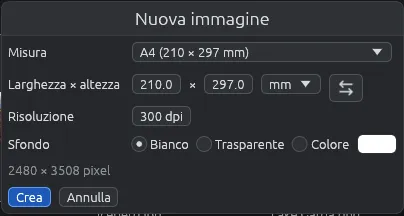
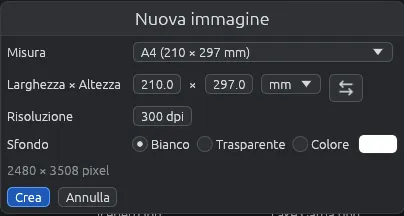
New image: Width × Height, Larghezza × Altezza, with a capital letter as the other labels
Guide and its pictures (en, it) with it.

Refs #311

diff --git a/docs/help/it/new-image.md b/docs/help/it/new-image.md
@@ -16,7 +16,7 @@ Nel visore **Nuova immagine…** è grigia e **Ctrl + N** non fa niente: prima t
 ## Misura
 
 - Misure pronte: A3, A4, A5, Lettera, Legale (fogli), Full HD, 4K UHD, HD (schermi), **Quadrata** (1080 × 1080) e **Verticale per le storie** (1080 × 1920).
-- **Larghezza × altezza**: i tuoi numeri, in px, mm, cm o in (pollici). Cambiando un numero o l'unità la misura diventa **Personalizzata**.
+- **Larghezza × Altezza**: i tuoi numeri, in px, mm, cm o in (pollici). Cambiando un numero o l'unità la misura diventa **Personalizzata**.
 - ![Scambia larghezza e altezza](icon://arrow-left-right) scambia larghezza e altezza, per l'orizzontale o il verticale.
 - **Risoluzione**: per le misure in millimetri, centimetri o pollici, quanti punti per pollice. Sotto, la finestra mostra quanti pixel fanno. All'inizio è A4 a 300 dpi.
 

diff --git a/docs/help/en/new-image.md b/docs/help/en/new-image.md
@@ -16,7 +16,7 @@ In the viewer **New image…** is greyed out and **Ctrl + N** does nothing: go b
 ## Size
 
 - Ready-made sizes: A3, A4, A5, Letter, Legal (paper), Full HD, 4K UHD, HD (screens), **Square** (1080 × 1080) and **Upright, for stories** (1080 × 1920).
-- **Width × height**: your own numbers, in px, mm, cm or in. Changing a number or the unit turns the size into **Custom**.
+- **Width × Height**: your own numbers, in px, mm, cm or in. Changing a number or the unit turns the size into **Custom**.
 - ![Swap width and height](icon://arrow-left-right) swaps width and height, for landscape or portrait.
 - **Resolution**: for sizes in millimetres, centimetres or inches, how many dots per inch. The window shows below how many pixels that makes. It starts at A4 at 300 dpi.
 
